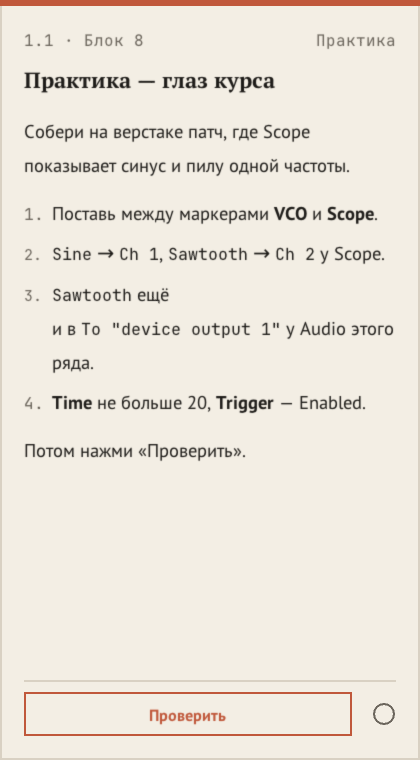
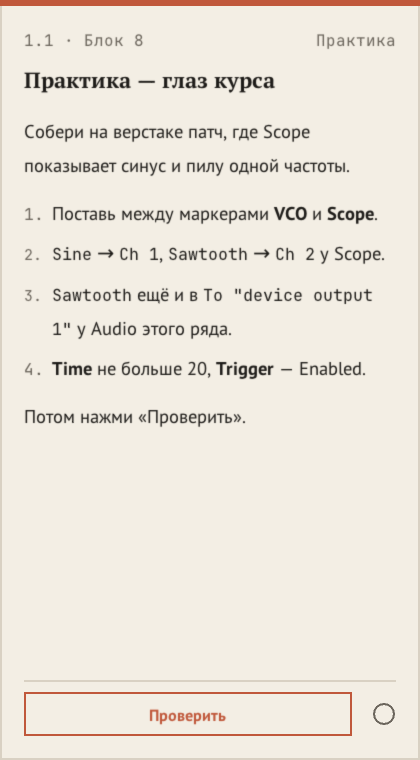
W5: live verification of demo blocks, cover at 28 HP with the part header, keep «Ch 1» together

Changed region(s): [[0.0619, 0.3632, 0.9286, 0.6053], [0.5571, 0.3632, 0.7119, 0.3934], [0.4024, 0.3632, 0.5262, 0.3934]]

diff --git a/plugin/src/text/Layout.cpp b/plugin/src/text/Layout.cpp
@@ -167,8 +167,12 @@ std::vector<Atom> atomize(const Block& b, Measurer& m, const TextStyle& st) {
 		while (i + 1 < glued.size() && glued[i + 1].hasSpace) {
 			std::string last = lastWord(a);
 			const Atom& next = glued[i + 1];
-			bool unit = isNumber(last) && utf8Length(next.textOf()) <= 4 && !isNumber(next.textOf());
-			if (!isShortWord(last) && !unit)
+			std::string nt = next.textOf();
+			bool unit = isNumber(last) && utf8Length(nt) <= 4 && !isNumber(nt);
+			// A panel name and its number stay together: «Ch 1», «Gain 2».
+			bool latin = !last.empty() && (unsigned char) last.back() < 0x80 && std::isalpha((unsigned char) last.back());
+			bool index = latin && !nt.empty() && nt.size() <= 3 && std::isdigit((unsigned char) nt[0]);
+			if (!isShortWord(last) && !unit && !index)
 				break;
 			a.parts.push_back(next.spaceBefore);
 			a.parts.insert(a.parts.end(), next.parts.begin(), next.parts.end());

diff --git a/plugin/src/modules/Page.cpp b/plugin/src/modules/Page.cpp
@@ -29,7 +29,7 @@ struct PageWidget : AtlasWidget {
 			drawMissing(vg, st, w, h, "**Страница**\nТекст блока появится, когда модуль привязан к уроку курса Atlas.");
 			return;
 		}
-		view.header = header();
+		view.header = it->title ? partHeader(pack(), lesson()) : header();
 		view.text.md = it->text;
 		view.text.title = it->title;
 		view.text.reportId = lessonId() + "/" + blockId() + "/" + itemId();

diff --git a/plugin/src/core/Pack.cpp b/plugin/src/core/Pack.cpp
@@ -257,4 +257,13 @@ std::string blockHeader(const Lesson* l, const Block* b) {
 	return s;
 }
 
+std::string partHeader(const Pack& pack, const Lesson* l) {
+	if (!l)
+		return "";
+	for (const Part& p : pack.parts)
+		if (p.n == l->part)
+			return "Часть " + std::to_string(p.n) + " · " + p.title;
+	return "Часть " + std::to_string(l->part);
+}
+
 } // namespace atlas

diff --git a/plugin/tests/render/previews.cpp b/plugin/tests/render/previews.cpp
@@ -64,7 +64,7 @@ float drawItem(NVGcontext* vg, const Style& st, const Pack& pk, const Lesson& L,
 	if (it.kind == "page") {
 		w = hpOf(it, 24);
 		PageView v;
-		v.header = header;
+		v.header = it.title ? partHeader(pk, &L) : header;
 		v.text.md = it.text;
 		v.text.title = it.title;
 		v.text.reportId = report;

diff --git a/plugin/src/core/Pack.hpp b/plugin/src/core/Pack.hpp
@@ -123,4 +123,7 @@ struct Pack {
 /** «1.1 · Блок 2» */
 std::string blockHeader(const Lesson* l, const Block* b);
 
+/** «Часть 1 · Язык модульного синтеза» for a lesson's cover. */
+std::string partHeader(const Pack& pack, const Lesson* l);
+
 } // namespace atlas
